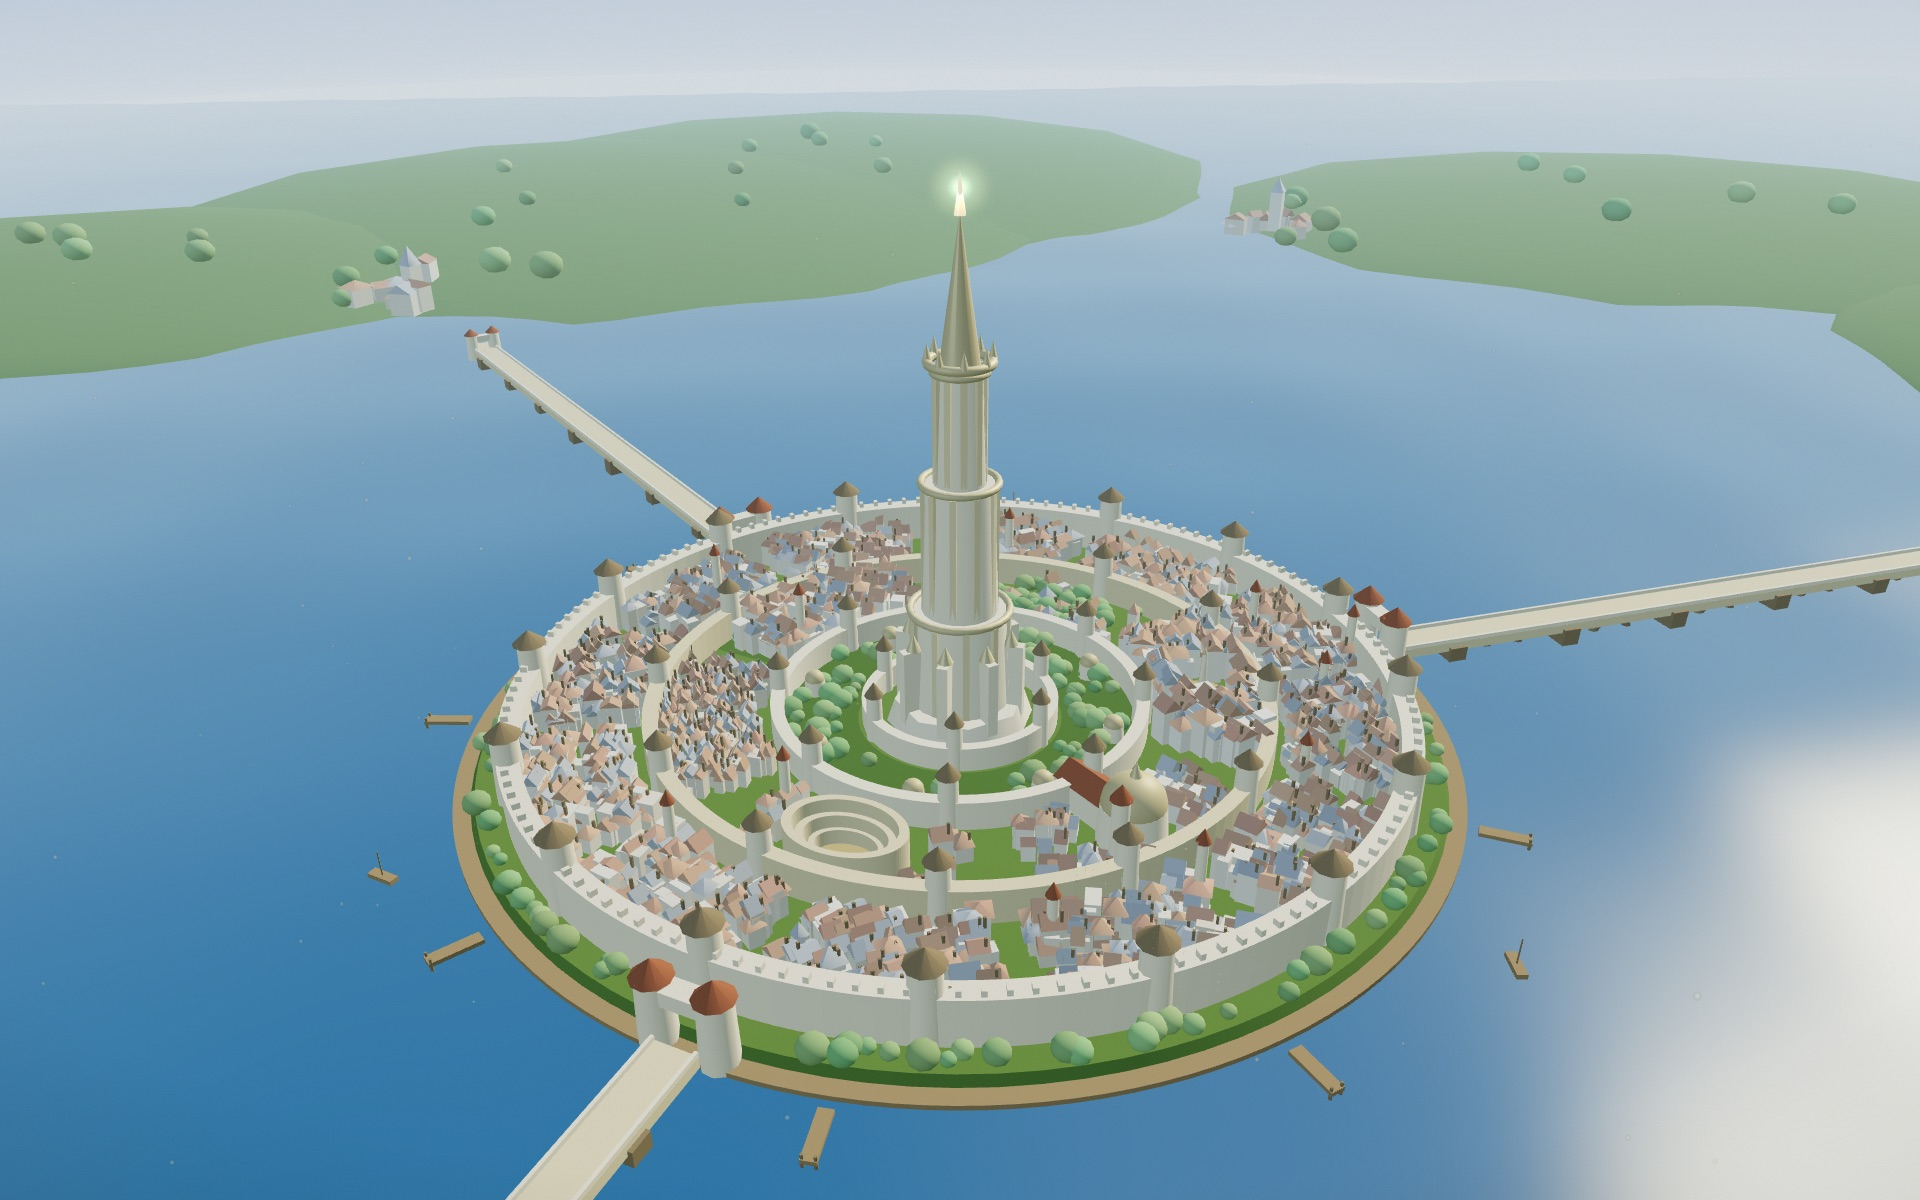
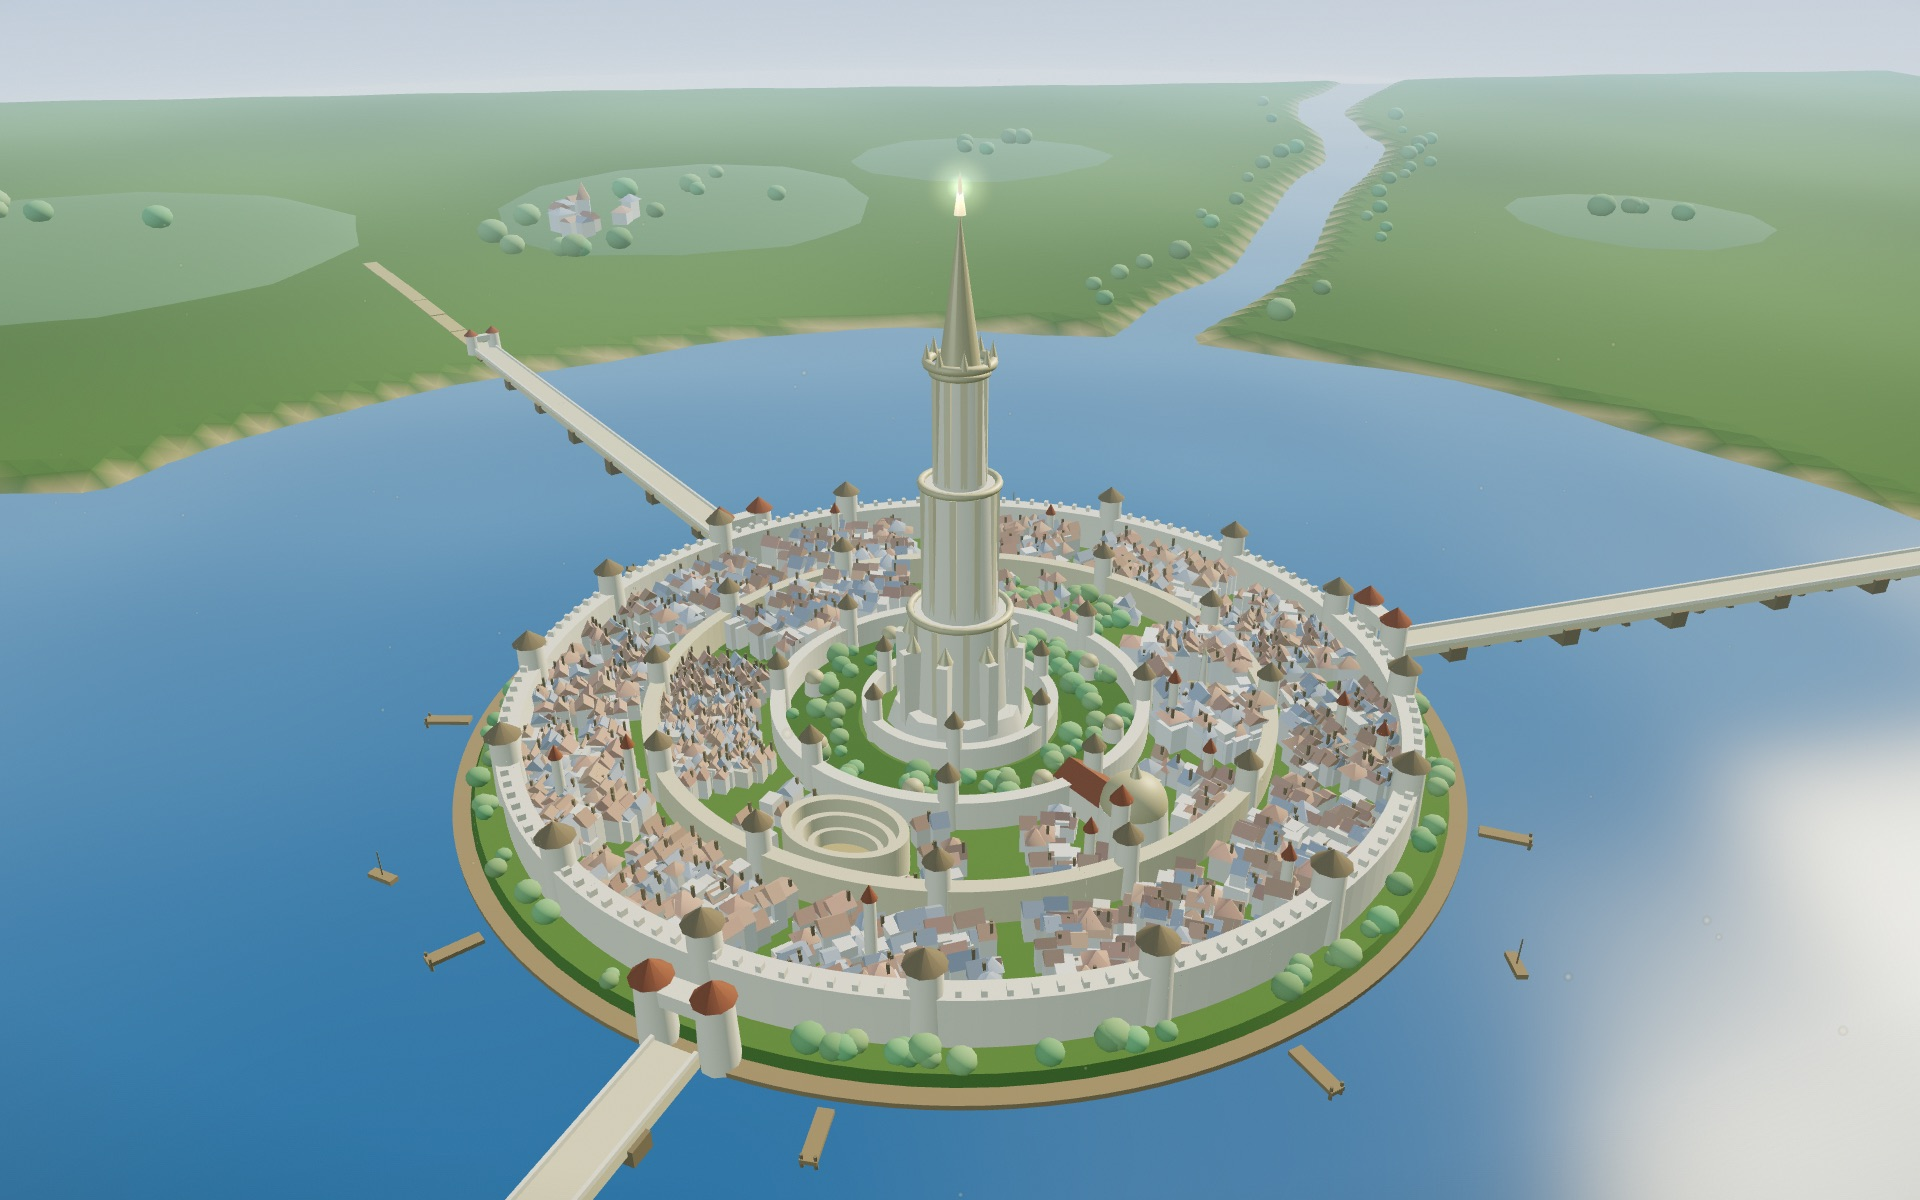
Landing: geographically accurate Cyrodiil — inland Lake Rumare ringed by mainland, Niben river (N inflow → S outflow) + Corbolo tributary, causeways to shore w/ roads, 7 cities at true bearings. Update codex backdrop to match.

diff --git a/index.html b/index.html
@@ -766,7 +766,7 @@ function init(){
   const SIX = Math.PI / 3;
   const wedgeA = k => k * SIX + SIX / 2;
   const lots = [], treeSpots = [];
-  const BRIDGE_AS = [0.55, 2.65, 4.55]; /* the three bridge bearings — shared by the waterfront, the rim planting, and the far towns */
+  const BRIDGE_AS = [0.55, 2.65, 4.55]; /* the three bridge bearings — shared by the waterfront, the rim planting, the lake rim, and the mainland roads */
 
   function greenWedge(rIn, rOut, a0, aLen){
     const geo = new THREE.RingGeometry(rIn, rOut, 40, 1, a0, aLen);
@@ -948,23 +948,107 @@ function init(){
     city.add(dm);
   }
 
-  /* ======================= far shores of Rumare ======================= */
+  /* ======================= the Cyrodiil mainland ======================= */
+  /* Lake Rumare is an INLAND lake: green mainland surrounds it on every side,
+     and the lake itself is a widening of the Niben — the Upper Niben winds in
+     from the north, the Niben proper flows out south toward Niben Bay, and the
+     little Corbolo creeps in from the east.
+     Compass: world angle = NORTH_A + bearing (radians clockwise from north). */
+  const NORTH_A = 2.03;                                /* due north, chosen clear of the bridge bearings */
+  const bearing = deg => NORTH_A + deg * Math.PI / 180;
+  const LAKE_R = 335, TAPER = 16;
+  const sstep = (a, b, x) => { const t = Math.min(1, Math.max(0, (x - a) / (b - a))); return t * t * (3 - 2 * t); };
+  const angDiff = (a, b) => Math.abs(((a - b) % (Math.PI * 2) + Math.PI * 3) % (Math.PI * 2) - Math.PI);
+
+  /* the lake rim wobbles gently, but flattens at the three causeways so each lands on shore */
+  function lakeRim(th){
+    let w = 1;
+    for(const b of BRIDGE_AS) w = Math.min(w, sstep(0.16, 0.52, angDiff(th, b)));
+    return LAKE_R + (17 * Math.sin(th * 2 + 1.3) + 11 * Math.sin(th * 3 + 0.4)) * w;
+  }
+
+  const RIVERS = [
+    {a: bearing(0),   w0: 26, w1: 36, m1: 26, m2: 14, f1: 0.0060, f2: 0.0130, p1: 1.1, p2: 4.0}, /* the Upper Niben, in from the north */
+    {a: bearing(180), w0: 36, w1: 96, m1: 34, m2: 18, f1: 0.0050, f2: 0.0110, p1: 4.2, p2: 1.7}, /* the Niben, out south and widening toward the Bay */
+    {a: bearing(90),  w0: 16, w1: 22, m1: 20, m2: 10, f1: 0.0070, f2: 0.0150, p1: 2.6, p2: 0.6}  /* the Corbolo, a thin eastern tributary */
+  ];
+  for(const rv of RIVERS){
+    rv.dx = Math.cos(rv.a); rv.dz = Math.sin(rv.a);
+    rv.meander = u => rv.m1 * Math.sin(u * rv.f1 + rv.p1) + rv.m2 * Math.sin(u * rv.f2 + rv.p2);
+    rv.half = u => rv.w0 + (rv.w1 - rv.w0) * Math.min(1, Math.max(0, (u - LAKE_R) / 900));
+  }
+
+  /* signed distance to open water (negative = water); the one water plane shows through */
+  function waterSDF(x, z){
+    let d = Math.hypot(x, z) - lakeRim(Math.atan2(z, x));
+    for(const rv of RIVERS){
+      const u = x * rv.dx + z * rv.dz;
+      if(u > 140) d = Math.min(d, Math.abs(-x * rv.dz + z * rv.dx - rv.meander(u)) - rv.half(u));
+    }
+    return d;
+  }
+  function landHeight(x, z){
+    const d = waterSDF(x, z);
+    if(d <= -TAPER) return -5;                         /* river / lake bed, below the water plane */
+    const s = sstep(-TAPER, TAPER, d);
+    const n    = Math.sin(x * 0.021 + z * 0.017) * Math.sin(x * 0.013 - z * 0.023);
+    const roll = Math.sin(x * 0.0042 + 0.7) * Math.sin(z * 0.0051 + 0.2);
+    return -5 + s * 7.4 + s * s * (1.9 + n * 0.7 + roll * 1.1);   /* land tops out 2.5–6.1, above every wave */
+  }
+
+  /* one big low-poly ground sheet with the lake and both rivers carved in */
+  {
+    const g = new THREE.PlaneGeometry(2400, 2400, 220, 220);
+    g.rotateX(-Math.PI/2);
+    const p = g.attributes.position;
+    const colors = new Float32Array(p.count * 3);
+    const cA = new THREE.Color(0x5d7f3a), cB = new THREE.Color(0x4b6b2d),
+          cSand = new THREE.Color(0xb2a06e), cBed = new THREE.Color(0x77855c), cc = new THREE.Color();
+    for(let i = 0; i < p.count; i++){
+      const x = p.getX(i), z = p.getZ(i);
+      const h = landHeight(x, z);
+      p.setY(i, h);
+      const mow = 0.5 + 0.5 * Math.sin(x * 0.009 + 1.7) * Math.sin(z * 0.011 + 0.3);
+      cc.copy(cA).lerp(cB, mow);                                   /* mottled grass */
+      if(h < 2.6) cc.lerp(cSand, sstep(0, 1, (2.6 - h) / 2.2));    /* sandy banks at the waterline */
+      if(h < -1.4) cc.copy(cBed);                                  /* the bed, rarely seen */
+      colors[i*3] = cc.r; colors[i*3+1] = cc.g; colors[i*3+2] = cc.b;
+    }
+    g.setAttribute('color', new THREE.BufferAttribute(colors, 3));
+    const mainland = new THREE.Mesh(g, new THREE.MeshStandardMaterial({vertexColors:true, roughness:1.0, flatShading:true}));
+    scene.add(mainland);
+  }
+
+  /* — rolling hills on the mainland; the tall pair northward hints at the Jeralls — */
   const hillMat = new THREE.MeshStandardMaterial({color:0x66875a, roughness:1.0});
   const hillGeo = new THREE.SphereGeometry(1, 12, 8, 0, Math.PI*2, 0, Math.PI/2);
   const hills = [];
-  for(let i = 0; i < 12; i++){
-    const a = (i/12) * Math.PI * 2 + Math.random()*0.4;
-    const r = 620 + Math.random()*170;
-    const sx = 180 + Math.random()*140, sy = 15 + Math.random()*12, sz = 180 + Math.random()*140;
+  const HILL_DEFS = [ /* bearing°, r, sx, sy, sz */
+    [ 24, 700, 250, 30, 190], [338, 730, 270, 32, 210],
+    [ 55, 640, 180, 20, 150], [ 72, 780, 190, 16, 170],
+    [107, 700, 170, 17, 150], [135, 640, 190, 15, 160],
+    [160, 820, 170, 14, 150], [205, 690, 180, 16, 150],
+    [232, 760, 210, 19, 170], [258, 700, 190, 22, 160],
+    [287, 660, 200, 21, 170], [313, 700, 220, 24, 180]
+  ];
+  for(const [deg, r, sxW, sy, szW] of HILL_DEFS){
+    const a = bearing(deg);
+    let room = Infinity;                               /* shrink any hill that would crowd a river corridor */
+    for(const rv of RIVERS){
+      const da = angDiff(a, rv.a);
+      if(da < Math.PI/2) room = Math.min(room, r * Math.sin(da) - (rv.w1 + rv.m1 + rv.m2 + TAPER + 14));
+    }
+    const sx = Math.min(sxW, room), sz = Math.min(szW, room);
+    if(sx < 70) continue;
     const hill = new THREE.Mesh(hillGeo, hillMat);
     hill.scale.set(sx, sy, sz);
     hill.position.set(Math.cos(a)*r, -8, Math.sin(a)*r);
     scene.add(hill);
     hills.push({x: hill.position.x, z: hill.position.z, sx, sy, sz});
   }
-  /* ground height anywhere on the far shore (falls back to the waterline) */
+  /* ground height anywhere on the mainland */
   function shoreHeight(x, z){
-    let y = 0.4;
+    let y = landHeight(x, z);
     for(const h of hills){
       const dx = (x - h.x)/h.sx, dz = (z - h.z)/h.sz, q = 1 - dx*dx - dz*dz;
       if(q > 0) y = Math.max(y, -8 + h.sy*Math.sqrt(q));
@@ -972,36 +1056,76 @@ function init(){
     return y;
   }
 
-  /* — the distant towns of Cyrodiil: a handful of rooftops and one landmark each,
-       set on the far hills and half-lost in the haze; three sit where the great
-       bridges point, as if the roads carried on to them — */
-  const TOWN_AS = [BRIDGE_AS[0], 1.62, BRIDGE_AS[1], 3.6, BRIDGE_AS[2], 5.62];
-  for(const ta of TOWN_AS){
-    let tr = 470;                       /* walk this bearing outward until it finds land */
-    while(tr < 700 && shoreHeight(Math.cos(ta)*tr, Math.sin(ta)*tr) < 2.5) tr += 12;
-    const tx = Math.cos(ta)*tr, tz = Math.sin(ta)*tr;
-    const n = 8 + ((Math.random()*4)|0);
-    for(let i = 0; i < n; i++){
-      const oa = Math.random()*Math.PI*2, or = 6 + Math.random()*24;
+  /* — dirt roads carry the three causeways on into the hinterland — */
+  {
+    const SEG = 6;
+    const roads = new THREE.InstancedMesh(new THREE.BoxGeometry(34, 0.6, 7.2), sandMat, SEG * BRIDGE_AS.length);
+    let ri = 0;
+    for(const a of BRIDGE_AS){
+      for(let s2 = 0; s2 < SEG; s2++){
+        const r = 388 + s2 * 31;
+        const x = Math.cos(a)*r, z = Math.sin(a)*r;
+        dummy.position.set(x, shoreHeight(x, z) + 0.18, z);
+        dummy.rotation.set(0, -a, 0);
+        dummy.scale.set(1, 1, 1);
+        dummy.updateMatrix();
+        roads.setMatrixAt(ri++, dummy.matrix);
+      }
+    }
+    scene.add(roads);
+  }
+
+  /* — the distant cities of Cyrodiil, each at its true bearing from the
+       White-Gold Tower and half-lost in the haze — */
+  const TOWNS = [
+    {deg:   0, r: 640, n: 10, spread: 26},  /* Bruma — due north, under the Jeralls */
+    {deg:  48, r: 570, n:  9, spread: 24},  /* Cheydinhal — northeast */
+    {deg: 310, r: 590, n:  9, spread: 24},  /* Chorrol — northwest */
+    {deg: 243, r: 660, n:  9, spread: 26},  /* Skingrad — west-southwest */
+    {deg: 265, r: 760, n:  8, spread: 22},  /* Kvatch — west, up on its bluff */
+    {deg: 165, r: 500, n:  9, spread: 22},  /* Bravil — south, on the Niben's bank */
+    {deg: 191, r: 780, n:  8, spread: 22}   /* Leyawiin — far south, down the river */
+  ];
+  for(const t of TOWNS){
+    const ta = bearing(t.deg);
+    const tx = Math.cos(ta)*t.r, tz = Math.sin(ta)*t.r;
+    for(let i = 0; i < t.n; i++){
+      const oa = Math.random()*Math.PI*2, or = 6 + Math.random()*t.spread;
       const x = tx + Math.cos(oa)*or, z = tz + Math.sin(oa)*or;
+      const gy = shoreHeight(x, z);
+      if(gy < 1.9) continue;              /* never build in the river */
       lots.push({
-        x, z, y: shoreHeight(x, z) - 0.8,
+        x, z, y: gy - 0.8,
         w: 6 + Math.random()*6, d: 6 + Math.random()*6, h: 5 + Math.random()*7,
         rot: Math.random()*Math.PI, roof: Math.random() < 0.7 ? 1 : 2,
         rh: 2.4 + Math.random()*2, lum: .6 + Math.random()*.08, far: true
       });
     }
-    lots.push({                         /* the landmark — a keep with a tall spire */
+    lots.push({                           /* the landmark — a keep with a tall spire */
       x: tx, z: tz, y: shoreHeight(tx, tz) - 0.8,
       w: 7, d: 7, h: 16 + Math.random()*8,
       rot: Math.random()*Math.PI, roof: 2, rh: 8 + Math.random()*5, lum: .72, far: true
     });
-    for(let i = 0; i < 8; i++){         /* an orchard fringe around the town */
+    for(let i = 0; i < 8; i++){           /* an orchard fringe around the town */
       const oa = Math.random()*Math.PI*2, or = 24 + Math.random()*44;
       const x = tx + Math.cos(oa)*or, z = tz + Math.sin(oa)*or;
       const gy = shoreHeight(x, z);
-      if(gy < 1.2) continue;
+      if(gy < 1.9) continue;
       treeSpots.push([x, z, gy - 0.6, 5 + Math.random()*4]);
+    }
+  }
+
+  /* — willows along both banks of each river — */
+  for(const rv of RIVERS){
+    for(let u = LAKE_R + 40; u < 1120; u += 26){
+      for(const side of [-1, 1]){
+        if(Math.random() < 0.5) continue;
+        const v = rv.meander(u) + side * (rv.half(u) + TAPER + 5 + Math.random()*20);
+        const x = rv.dx*u - rv.dz*v, z = rv.dz*u + rv.dx*v;
+        const gy = shoreHeight(x, z);
+        if(gy < 1.9) continue;
+        treeSpots.push([x, z, gy - 0.5, 3.5 + Math.random()*3.5]);
+      }
     }
   }
   /* light woods scattered on the far hills */
@@ -1010,7 +1134,7 @@ function init(){
       const oa = Math.random()*Math.PI*2, od = Math.random()*0.45;
       const x = h.x + Math.cos(oa)*od*h.sx, z = h.z + Math.sin(oa)*od*h.sz;
       const gy = shoreHeight(x, z);
-      if(gy < 1.5) continue;
+      if(gy < 1.9) continue;
       treeSpots.push([x, z, gy - 0.6, 5 + Math.random()*3.5]);
     }
   }